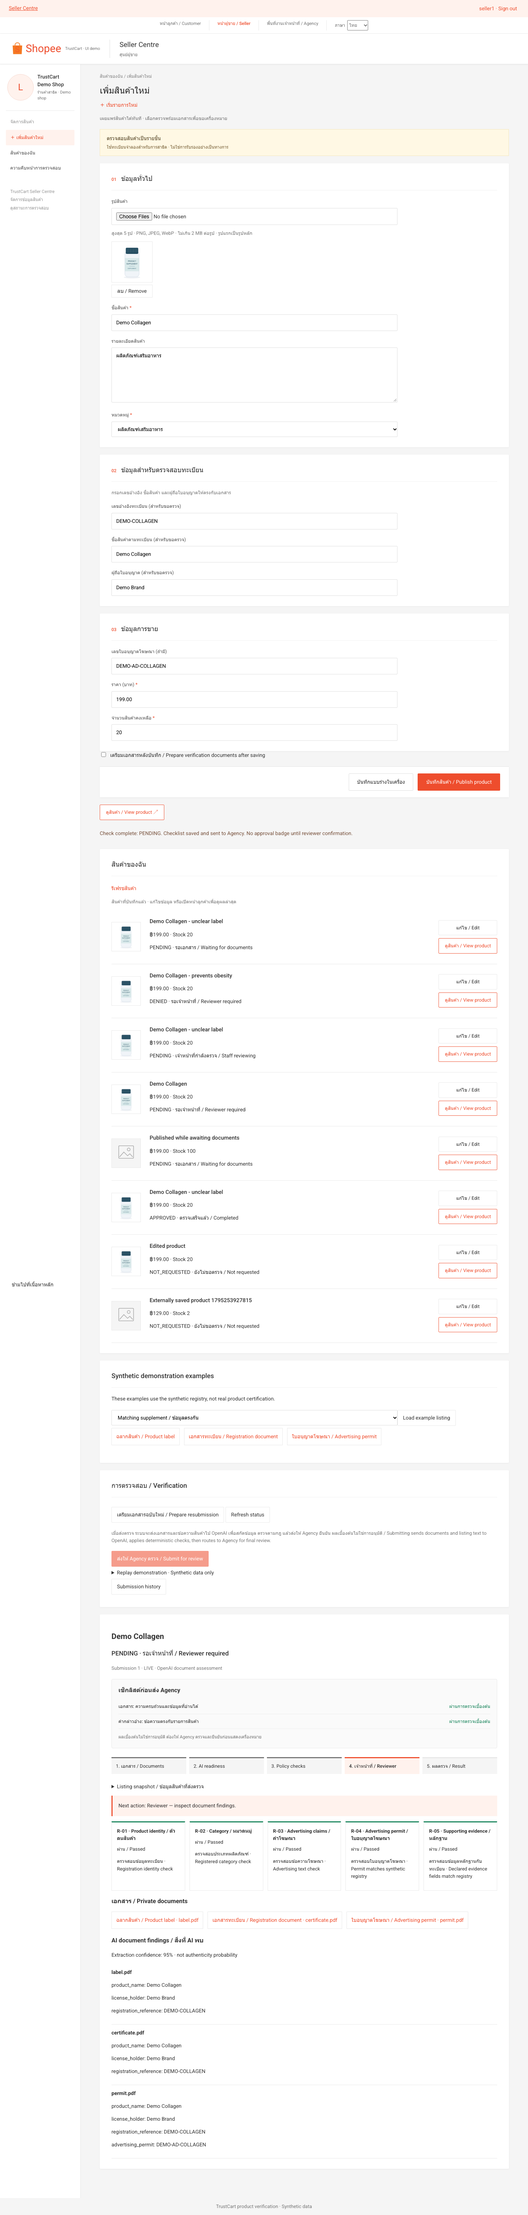
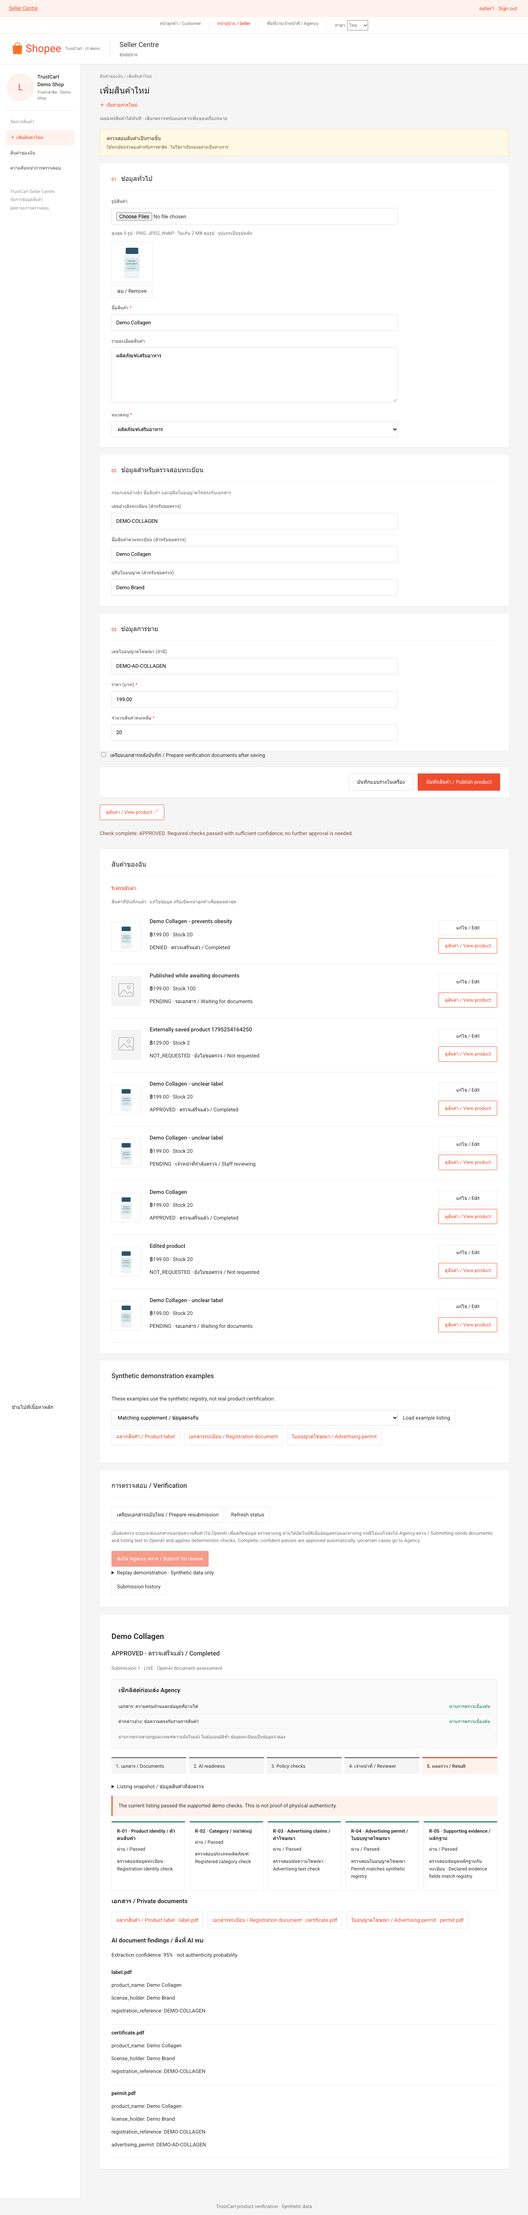
[codex] Auto-approve confident rule passes and escalate uncertain cases

diff --git a/frontend/checklist-view.js b/frontend/checklist-view.js
@@ -64,12 +64,23 @@ window.TrustCartChecklist = (() => {
     section.append(
       node(
         "p",
-        text(
-          "ผลเบื้องต้นไม่ใช่การอนุมัติ ต้องให้ Agency ตรวจและยืนยันก่อนแสดงเครื่องหมาย",
-          "Pre-checks are not approval. Agency must review and confirm before a badge is granted.",
-        ),
+        result.status === "APPROVED" && result.stage === "COMPLETED"
+          ? text(
+              "ผ่านการตรวจตามกฎและเกณฑ์ความมั่นใจแล้ว ไม่ต้องอนุมัติซ้ำ ข้อมูลทะเบียนเป็นข้อมูลจำลอง",
+              "Passed the required rules and confidence threshold. No additional approval is needed. Registry data is synthetic.",
+            )
+          : result.status === "DENIED"
+            ? text(
+                "พบข้อที่ไม่ผ่าน ต้องแก้ไขและส่งตรวจฉบับใหม่",
+                "Required checks failed. Correct the listing and submit a new revision.",
+              )
+            : text(
+                "กรณีไม่แน่ใจหรือข้อมูลไม่ครบจะส่งให้ Agency ตรวจ ผลที่ยังยืนยันไม่ได้ไม่มีเครื่องหมาย",
+                "Uncertain or incomplete evidence goes to Agency. Unconfirmed results receive no badge.",
+              ),
       ),
     );
+
     if (result.mode === "replay")
       section.append(
         node(

diff --git a/frontend/seller-connected.js b/frontend/seller-connected.js
@@ -355,7 +355,11 @@
       feedback(
         submission.stage === "UNAVAILABLE"
           ? "Check complete: UNKNOWN. Automated checks unavailable; Agency can inspect the case. Retry is required before approval."
-          : `Check complete: ${submission.status}. Checklist saved and sent to Agency. No approval badge until reviewer confirmation.`,
+          : submission.status === "APPROVED"
+            ? "Check complete: APPROVED. Required checks passed with sufficient confidence; no further approval is needed."
+            : submission.status === "DENIED"
+              ? "Check complete: DENIED. Correct the recorded failures and submit a new revision."
+              : "Check complete: PENDING. More information or reviewer confirmation is needed; checklist sent to Agency.",
       );
     } finally {
       showSelected();

diff --git a/tests/test_connected_submit_review.py b/tests/test_connected_submit_review.py
@@ -1,4 +1,5 @@
 import httpx
+import pytest
 from contextlib import closing
 from backend.app import database as store
 from test_connected_access import connected, login
@@ -26,7 +27,7 @@ def submit(client, result):
     )
 
 
-def test_submit_automatically_checks_documents_and_claims_then_routes_without_badge(
+def test_submit_auto_approves_only_completed_confident_checks(
     connected,
 ):
     client, password = connected
@@ -38,17 +39,17 @@ def test_submit_automatically_checks_documents_and_claims_then_routes_without_ba
     checked = response.json()
     assert calls == ["documents", "claims"]
     assert checked["mode"] == "live"
-    assert checked["status"] == "PENDING"
-    assert checked["stage"] == "REVIEWER_REQUIRED" and checked["human_review_required"]
+    assert checked["status"] == "APPROVED"
+    assert checked["stage"] == "COMPLETED" and not checked["human_review_required"]
     assert checked["precheck_status"] == "APPROVED"
     assert len(checked["rule_results"]) == 5
     assert checked["document_check"]["state"] == "completed"
     assert checked["claim_check"]["state"] == "completed"
-    assert not client.get("/v1/catalog/products").json()[0]["badge_eligible"]
+    assert client.get("/v1/catalog/products").json()[0]["badge_eligible"]
     assert submit(client, result).json()["chain_hash"] == checked["chain_hash"]
     assert calls == ["documents", "claims"]
     login(client, password, "reviewer")
-    queue = client.get("/v1/reviewer/queue?work_queue=to_review").json()
+    queue = client.get("/v1/reviewer/queue?work_queue=completed").json()
     assert any(row["id"] == checked["id"] for row in queue["items"])
     stored = client.get("/v1/reviewer/submissions/" + checked["id"]).json()
     assert stored["audit"]["valid"]
@@ -86,7 +87,7 @@ def test_ungrounded_claims_are_dropped_and_stale_submits_never_call_provider(con
     }
     checked = submit(client, result).json()
     assert checked["claim_check"]["claims"] == []
-    assert checked["status"] == "PENDING"
+    assert checked["status"] == "APPROVED"
     client.put(
         "/v1/seller/products/" + product["id"],
         json={**product["listing"], "expected_version": 1},
@@ -159,7 +160,7 @@ def test_real_provider_boundary_calls_openai_for_both_checklists(
     monkeypatch.setattr(httpx, "post", post)
     checked = submit(client, result).json()
     assert called == ["document_readiness", "listing_claims"]
-    assert checked["status"] == "PENDING" and checked["precheck_status"] == "APPROVED"
+    assert checked["status"] == "APPROVED" and checked["precheck_status"] == "APPROVED"
 
 
 def test_grounded_claim_failure_and_missing_check_cannot_be_overridden(connected):
@@ -168,7 +169,7 @@ def test_grounded_claim_failure_and_missing_check_cannot_be_overridden(connected
     configure_checks(client, [])
     checked = submit(client, result).json()
     assert checked["status"] == "DENIED"
-    assert checked["stage"] == "REVIEWER_REQUIRED"
+    assert checked["stage"] == "COMPLETED"
     assert any(
         rule["rule"] == "R-03" and rule["result"] == "fail"
         for rule in checked["rule_results"]
@@ -214,3 +215,47 @@ def test_review_cannot_skip_unrun_checks_even_with_confirmed_documents(connected
     )
     assert response.status_code == 409
     assert not client.get("/v1/catalog/products").json()[0]["badge_eligible"]
+
+
+def test_low_confidence_or_missing_information_stays_pending(connected):
+    client, password = connected
+    _, result = setup_case(client, password, "uncertain")
+    configure_checks(client, [])
+    checked = submit(client, result).json()
+    assert checked["status"] == "PENDING"
+    assert checked["stage"] == "REVIEWER_REQUIRED" and checked["human_review_required"]
+    assert checked["document_check"]["result"] == "review"
+    assert not client.get("/v1/catalog/products").json()[0]["badge_eligible"]
+    _, result = setup_case(client, password)
+
+    def missing_information(listing, docs):
+        findings = replay(listing, docs)
+        findings["missing"] = ["Additional label information is required"]
+        return findings
+
+    configure_checks(client, [])
+    client.app.state.document_assessor = missing_information
+    checked = submit(client, result).json()
+    assert checked["status"] == "PENDING" and checked["human_review_required"]
+    assert checked["document_check"]["result"] == "review"
+
+
+
+@pytest.mark.parametrize("confidence,status", [(0.74, "PENDING"), (0.75, "APPROVED")])
+def test_auto_approval_respects_confidence_threshold(connected, confidence, status):
+    client, password = connected
+    _, result = setup_case(client, password)
+    configure_checks(client, [])
+
+    def assessor(listing, docs):
+        findings = replay(listing, docs)
+        findings["confidence"] = confidence
+        return findings
+
+    client.app.state.document_assessor = assessor
+    checked = submit(client, result).json()
+    assert checked["status"] == status
+    assert checked["human_review_required"] is (status == "PENDING")
+    assert client.get("/v1/catalog/products").json()[0]["badge_eligible"] is (
+        status == "APPROVED"
+    )

diff --git a/backend/app/api/assessment.py b/backend/app/api/assessment.py
@@ -293,11 +293,16 @@ def run(submission_id: UUID, payload: Run, request: Request):
                     )
                     event(result, "R-03", rule)
     result["precheck_status"] = result["status"]
-    if result["status"] == "APPROVED":
-        result.update(status="PENDING", reason="agency_review_required")
+    # Confident, complete findings can pass the deterministic rules automatically.
+    # Only unresolved evidence/uncertainty needs an additional Agency decision.
+    needs_review = result["status"] in ("PENDING", "UNKNOWN")
     result.update(
-        stage="UNAVAILABLE" if result["status"] == "UNKNOWN" else "REVIEWER_REQUIRED",
-        human_review_required=True,
+        stage=(
+            "UNAVAILABLE"
+            if result["status"] == "UNKNOWN"
+            else "REVIEWER_REQUIRED" if needs_review else "COMPLETED"
+        ),
+        human_review_required=needs_review,
     )
     event(
         result,
@@ -305,7 +310,7 @@ def run(submission_id: UUID, payload: Run, request: Request):
         {
             "status": result["status"],
             "precheck_status": result["precheck_status"],
-            "required": True,
+            "required": needs_review,
         },
     )
     with transaction(request.app.state.database) as connection:

diff --git a/tests/test_connected_workflow.py b/tests/test_connected_workflow.py
@@ -34,6 +34,8 @@ def run(client, result, mode="replay"):
 
 
 def approve_review(client, password, product, result):
+    if result["status"] == "APPROVED":
+        return result
     login(client, password, "reviewer")
     response = client.post(
         "/v1/reviewer/submissions/" + result["id"] + "/decision",
@@ -57,8 +59,8 @@ def test_replay_approval_and_buyer_document_isolation(connected):
     client, password = connected
     product, result = setup_case(client, password)
     result = run(client, result)
-    assert result["status"] == "PENDING" and result["mode"] == "replay"
-    assert not client.get("/v1/catalog/products").json()[0]["badge_eligible"]
+    assert result["status"] == "APPROVED" and result["mode"] == "replay"
+    assert client.get("/v1/catalog/products").json()[0]["badge_eligible"]
     result = approve_review(client, password, product, result)
     assert len(result["rule_results"]) == 5
     doc = result["documents"][0]["id"]

diff --git a/DEMO.md b/DEMO.md
@@ -1,6 +1,6 @@
 # TrustCart — เดโม 3 บทบาท
 
-แกนหลักคือ **ผู้ขายส่งหลักฐาน → AI ตรวจความพร้อม → กฎตัดสิน → Agency ตรวจทุกคำขอ → ผู้ซื้อเห็นเครื่องหมายบนสินค้าที่ผ่าน** เลขทะเบียนเพียงอย่างเดียวไม่ได้พิสูจน์ว่าสินค้าจริงเป็นของแท้ ทะเบียนและแพ็กเกจเป็นข้อมูลสาธิต ไม่ใช่การรับรองโดย Shopee หรือ อย.
+แกนหลักคือ **ผู้ขายส่งหลักฐาน → AI ตรวจความพร้อม → กฎตัดสิน → อนุมัติอัตโนมัติเมื่อผ่านกฎและมั่นใจ กรณีไม่แน่ใจให้ Agency ตรวจ → ผู้ซื้อเห็นเครื่องหมายบนสินค้าที่ผ่าน** เลขทะเบียนเพียงอย่างเดียวไม่ได้พิสูจน์ว่าสินค้าจริงเป็นของแท้ ทะเบียนและแพ็กเกจเป็นข้อมูลสาธิต ไม่ใช่การรับรองโดย Shopee หรือ อย.
 
 ## เตรียมเดโม
 
@@ -14,8 +14,8 @@
 1. ล็อกอิน seller1 เปิดเมนู **TrustCart · ฿299/เดือน** มุมขวาบน แล้วเปิดใช้แผนสาธิต เมนูจะหายไปเมื่อแผนยังมีผล อธิบายว่าเป็นการเปิดใช้จำลอง ตรวจสินค้าไม่จำกัดในเดือนนั้น และไม่มีการเก็บเงินจริง
 2. เลือกตัวอย่าง **ข้อมูลตรงกัน / Matching supplement** แล้วกด **Load example listing** และบันทึกสินค้า ลิงก์ **ดูสินค้า / View product** แสดงรูป ราคา และสต็อกทันที แต่ยังไม่มีเครื่องหมาย
 3. กด **เตรียมเอกสาร / Prepare documents** แล้วอัปโหลดฉลาก เอกสารทะเบียน และใบอนุญาตที่จำเป็น ปุ่มเอกสารตัวอย่างส่งไฟล์จำลองโดยไม่เปลี่ยนรูปแบบการตรวจอัตโนมัติ
-4. กด **ส่งให้ Agency ตรวจ / Submit for review** ระบบเรียก OpenAI สกัดข้อมูลเอกสารและข้อความกล่าวอ้างโดยอัตโนมัติ แล้วใช้กฎสร้างเช็กลิสต์ แม้ผ่านเบื้องต้นก็ยังเป็น `PENDING` / Reviewer required และไม่มีเครื่องหมาย หากเดโมออฟไลน์ ให้เปิด **Replay demonstration** เพื่อรันเช็กลิสต์จำลองที่ระบุชัดเจน ซึ่งยังต้องให้ Agency ตรวจ
-5. ล็อกอิน reviewer เปิด `/agency` เลือก **รอเจ้าหน้าที่ตรวจ** เปิดรายงานและกด **เริ่มตรวจ** อ่านเอกสารต้นฉบับและเช็กลิสต์ทั้งสองรายการ ติ๊กยืนยันเอกสาร กรอกข้อมูลตัวตนจากเอกสารและเหตุผล แล้วกด **Approve** ระบบรันกฎอีกครั้งก่อนอนุมัติ หน้าสินค้าปัจจุบันจึงแสดงเครื่องหมายได้ โดยเอกสารยังเป็นส่วนตัว
+4. กด **ส่งให้ Agency ตรวจ / Submit for review** ระบบเรียก OpenAI สกัดข้อมูลเอกสารและข้อความกล่าวอ้างโดยอัตโนมัติ แล้วใช้กฎสร้างเช็กลิสต์ เมื่อข้อมูลครบ สอดคล้อง ความมั่นใจตั้งแต่ 0.75 และผ่านกฎ จะได้ `APPROVED` อัตโนมัติโดยไม่ต้องอนุมัติซ้ำ หากเดโมออฟไลน์ ให้เปิด **Replay demonstration** เพื่อรันเช็กลิสต์จำลองที่ระบุชัดเจน โดยใช้เกณฑ์ความมั่นใจและกฎเดียวกัน
+5. เปิดหน้าสินค้าปัจจุบันเพื่อดูเครื่องหมายที่ได้อัตโนมัติ ใน Agency เลือก **เสร็จสิ้น** เพื่อดูรายงานโดยไม่ต้องอนุมัติซ้ำ ใช้ **รอเจ้าหน้าที่ตรวจ** สำหรับกรณีไม่มั่นใจหรือข้อมูลไม่ครบ ซึ่งยังเป็น `PENDING` จนกว่าจะแก้ไข เอกสารยังเป็นส่วนตัว
 6. แก้ชื่อ ราคา หรือสต็อกแล้วบันทึก URL เดิมแสดงข้อมูลใหม่และเครื่องหมายหาย ต้องส่งตรวจใหม่ โดยประวัติเดิมยังอยู่
 
 ## เจ้าหน้าที่ตรวจและส่งใหม่
@@ -34,7 +34,7 @@
 
 ## ขอบเขต
 
-รับเอกสารส่วนตัว PDF, PNG, JPEG, WebP ไม่เกิน 2 MiB ต่อไฟล์ ใช้งานพร้อมกันได้ 5 ไฟล์ และ PDF ไม่เข้ารหัสไม่เกิน 10 หน้า ข้อความอ้างอิงจาก PDF ถูกเทียบกับข้อความจริง ภาพและ PDF สแกนต้องให้คนยืนยันด้วยสายตา อาหารเสริมเป็นหมวดแรกของเช็กลิสต์ที่รองรับ แต่ทุกคำขอต้องผ่านการตรวจโดย Agency ยังไม่รวมการซื้อจริง การเก็บเงิน OAuth ทะเบียนภาครัฐจริง และการเชื่อมต่อ Marketplace จริง พื้นที่ Agency ในเครื่องใช้บัญชี reviewer และแบ่งปันข้อมูลคำขอ/ผลตรวจกับหน้าร้านผ่านฐานข้อมูลเดิม Lazada ยังไม่มีคำขอ
+รับเอกสารส่วนตัว PDF, PNG, JPEG, WebP ไม่เกิน 2 MiB ต่อไฟล์ ใช้งานพร้อมกันได้ 5 ไฟล์ และ PDF ไม่เข้ารหัสไม่เกิน 10 หน้า ข้อความอ้างอิงจาก PDF ถูกเทียบกับข้อความจริง ภาพและ PDF สแกนต้องให้คนยืนยันด้วยสายตา อาหารเสริมเป็นหมวดแรกของเช็กลิสต์ที่รองรับ กรณีไม่แน่ใจหรือข้อมูลไม่ครบต้องให้ Agency ตรวจ ยังไม่รวมการซื้อจริง การเก็บเงิน OAuth ทะเบียนภาครัฐจริง และการเชื่อมต่อ Marketplace จริง พื้นที่ Agency ในเครื่องใช้บัญชี reviewer และแบ่งปันข้อมูลคำขอ/ผลตรวจกับหน้าร้านผ่านฐานข้อมูลเดิม Lazada ยังไม่มีคำขอ
 
 ก่อนเดโมรัน `.venv/bin/python -m pytest -q`, `npm test`, `npm run test:browser` บน Windows ใช้ `.venv/Scripts/python` งานนี้ยังไม่ได้ deploy หรือทดสอบระบบ hosted จริง
 

diff --git a/README.md b/README.md
@@ -105,7 +105,7 @@ Public catalog data includes listing fields, shop identity, minimal status and `
 - Save a local draft and publish independently of verification. Successful publication remains visible if the optional verification action fails.
 - Activate the **demo ฿299/month** verification plan. This sets an expiry one calendar month ahead and enables submissions; it is not billing, payment, automatic renewal, or a validated commercial offer.
 - Create an immutable submission snapshot; upload a label and certificate/registration document, plus a permit when required by the listing or synthetic registry. Up to five active documents are retained per submission.
-- Choose **Prepare documents**, upload all required evidence, then **Submit for review**. That single action calls OpenAI document and claim extraction, applies deterministic rules, saves the checklist and routes the case to Agency. A clean pre-check remains `PENDING`; only a reviewer confirmation can grant a connected badge. A separate, explicitly labeled Replay demonstration also routes to Agency. View blockers, reviewer notes and revision history; prepare a new submission to replace checked evidence.
+- Choose **Prepare documents**, upload all required evidence, then **Submit for review**. That single action calls OpenAI document and claim extraction, applies deterministic rules, saves the checklist and routes the case to Agency. A complete, consistent assessment with confidence at least 0.75 and every required applicable rule passing becomes `APPROVED` automatically, without a second approval. Low confidence, missing information or unresolved conflicts remain `PENDING` for Agency review. A separate, explicitly labeled Replay demonstration follows the same status policy. View blockers, reviewer notes and revision history; prepare a new submission to replace checked evidence.
 - Use **Refresh products** or **Refresh status** for external updates. Seller product lists load on entry and after local actions; they do not poll while idle or on window focus. Manual refresh preserves unsaved edits.
 
 Any product edit supersedes the active submission and removes its badge. Replacing checked evidence requires a new submission. The backend checks product version, current submission and chain hash; stale reviewer actions and late assessment results cannot approve a newer revision. Assessment runs use a run token and lease to reject concurrent/stale completions.
@@ -145,7 +145,7 @@ Product images must be valid PNG/JPEG/WebP data URLs, at most 2 MiB and 16 milli
 
 The document request can transfer the listing and uploaded document content. Text-PDF quotations are checked against extracted page text. Image-only/scanned content, low confidence, inconsistent findings, missing quotations and non-supplement categories require human confirmation. An unavailable/malformed document or claim assessment produces `UNKNOWN`/`UNAVAILABLE`, retains any available findings and routes to Agency; it never silently switches to replay. Reviewers cannot approve while a required automated check is unavailable.
 
-Replay makes no OpenAI calls and accepts only the exact bundled listing and matching label/certificate/permit hashes for three synthetic cases: clean, uncertain and overclaim. It is labeled in Seller Centre. Neither replay nor live extraction authenticates documents. Both now require Agency review before approval; historical automatic demo approvals remain readable without rewriting their audit chains.
+Replay makes no OpenAI calls and accepts only the exact bundled listing and matching label/certificate/permit hashes for three synthetic cases: clean, uncertain and overclaim. It is labeled in Seller Centre. Neither replay nor live extraction authenticates documents. Complete, confident cases that pass the required rules can approve automatically; uncertain cases need Agency review. Historical audit chains remain intact.
 
 `backend/app/llm.py` extracts literal listing claims and drops phrases absent from the listing. Connected review submission uses its required, schema-validated extraction path: missing configuration, provider errors and malformed output are unavailable checks, not clean claims. Grounded findings are saved and reused when the reviewer reruns rules, with no provider call inside a database transaction. The older diagnostic APIs retain their optional extraction behavior. Neither model sets a verification status.
 
@@ -189,9 +189,9 @@ Playwright uses the connected application on port 8768, a temporary SQLite datab
 
 | Check | Result |
 | --- | --- |
-| `/tmp/trustcart-merge-venv/bin/python -m pytest -q` — isolated Python 3.13 environment installed from `requirements.txt` | 181 passed; one Starlette/httpx deprecation warning |
+| `/tmp/trustcart-merge-venv/bin/python -m pytest -q` — isolated Python 3.13 environment installed from `requirements.txt` | 184 passed; one Starlette/httpx deprecation warning |
 | `npm ci` then `npm test` | 133 passed |
-| `npx playwright test` — local Chromium | 46 passed (desktop/mobile Chromium) |
+| `npx playwright test` — local Chromium | 48 passed (desktop/mobile Chromium) |
 
 The pre-existing Python 3.15 `.venv` run had 171 passes and two import failures because `psycopg` was absent; installing the pinned binary extra on that interpreter failed dependency resolution. The successful Python 3.13 run uses the declared dependencies without modifying `.venv` or loosening requirements.
 

diff --git a/AGENCY.md b/AGENCY.md
@@ -44,6 +44,6 @@ Local validation: 143 Python tests, 120 frontend tests and 28 desktop/mobile bro
 
 ## Automatic seller pre-checks / ตรวจเบื้องต้นอัตโนมัติ
 
-After evidence preparation, the seller chooses Submit for review. The server calls both OpenAI document and listing-claim extractors, validates/grounds the findings and runs deterministic rules before routing to Agency. Seller and Agency reports share a two-entry pre-check checklist plus R-01–R-05 results. A clean assessment remains PENDING with no badge. Every new assessed case, including explicitly selected synthetic Replay, requires Agency review. Provider errors are UNKNOWN, preserve completed findings and cannot be approved until missing checks succeed. Reviewer approvals rerun rules against saved grounded findings and confirmed original documents. No AI provider is called while holding database write locks.
+After evidence preparation, the seller chooses Submit for review. The server calls both OpenAI document and listing-claim extractors, validates/grounds the findings and runs deterministic rules before routing to Agency. Seller and Agency reports share a two-entry pre-check checklist plus R-01–R-05 results. A complete, consistent assessment at confidence 0.75 or above that passes all required applicable rules is automatically APPROVED, with no extra approval step. Low confidence, missing information or conflicting evidence remains PENDING in To review. Automatic passes and conclusive failures are shown in Completed, including explicitly selected Replay. Provider errors are UNKNOWN, preserve completed findings and cannot be approved until missing checks succeed. Reviewer approvals rerun rules against saved grounded findings and confirmed original documents. No AI provider is called while holding database write locks.
 
-หลังเตรียมเอกสาร ผู้ขายกด Submit for review เซิร์ฟเวอร์เรียก OpenAI สกัดข้อมูลเอกสารและคำกล่าวอ้าง ตรวจว่าข้อความตรงกับข้อมูลจริง แล้วใช้กฎประเมินก่อนส่ง Agency รายงานผู้ขายและ Agency ใช้เช็กลิสต์เอกสาร/คำกล่าวอ้างร่วมกับผล R-01–R-05 ผลผ่านเบื้องต้นยังเป็น PENDING ไม่มีเครื่องหมาย ทุกคำขอใหม่รวม Replay ต้องให้ Agency ตรวจ หากผู้ให้บริการไม่พร้อมเป็น UNKNOWN โดยเก็บผลส่วนที่ตรวจได้ และอนุมัติไม่ได้จนกว่าจะตรวจส่วนที่ขาดสำเร็จ การอนุมัติรันกฎซ้ำจากผลสกัดที่บันทึกและข้อมูลจากเอกสารต้นฉบับ ไม่มีการเรียก AI ขณะล็อกฐานข้อมูลเพื่อเขียน
+หลังเตรียมเอกสาร ผู้ขายกด Submit for review เซิร์ฟเวอร์เรียก OpenAI สกัดข้อมูลเอกสารและคำกล่าวอ้าง ตรวจว่าข้อความตรงกับข้อมูลจริง แล้วใช้กฎประเมินก่อนส่ง Agency รายงานผู้ขายและ Agency ใช้เช็กลิสต์เอกสาร/คำกล่าวอ้างร่วมกับผล R-01–R-05 เมื่อข้อมูลครบ สอดคล้อง ความมั่นใจตั้งแต่ 0.75 และผ่านกฎที่จำเป็น จะเป็น APPROVED อัตโนมัติโดยไม่ต้องอนุมัติซ้ำ หากความมั่นใจต่ำ ข้อมูลไม่ครบ หรือหลักฐานขัดแย้ง จะเป็น PENDING ในคิวรอตรวจ ผลผ่านและผลไม่ผ่านที่ชัดเจนอยู่ในกลุ่มเสร็จสิ้น รวมถึง Replay หากผู้ให้บริการไม่พร้อมเป็น UNKNOWN โดยเก็บผลส่วนที่ตรวจได้ และอนุมัติไม่ได้จนกว่าจะตรวจส่วนที่ขาดสำเร็จ การอนุมัติรันกฎซ้ำจากผลสกัดที่บันทึกและข้อมูลจากเอกสารต้นฉบับ ไม่มีการเรียก AI ขณะล็อกฐานข้อมูลเพื่อเขียน

diff --git a/AGENTS.md b/AGENTS.md
@@ -23,7 +23,7 @@
 - `PRODUCT.md` defines the full product target; `REGISTRATION.md` records the promised end-to-end demo and commitments. Implement these incrementally rather than treating every described feature as already delivered.
 - `DEMO.md`, `DEMO.en.md`, `DEPLOY.md`, `DEPLOY.en.md`, and `GAPS_AND_QA.md` are supporting scenarios and operational references. Their feature lists, paths, deployment claims, and test counts require verification against this checkout.
 - Current implementation connects buyer, shop-owned seller and reviewer surfaces through `/v1/catalog`, `/v1/seller`, `/v1/reviewer` and `/v1/auth`. Demo role selection needs no password and does not authenticate real identities; sessions and CSRF are enforced in both entrypoints. Public catalog responses must never expose documents, AI findings or audit hashes. Registry data remains synthetic.
-- Seller **Submit for review** runs required Live OpenAI document and grounded-claim extraction, persists a checklist and routes to Agency. Clean pre-checks remain `PENDING`; new Live and Replay assessments cannot automatically grant approval. Unavailable required checks remain `UNKNOWN` and block approval until resolved.
+- Seller **Submit for review** runs required Live OpenAI document and grounded-claim extraction, persists a checklist and routes to Agency. Complete, grounded checks with confidence at least 0.75 and all required applicable rules passing are automatically `APPROVED`; no extra reviewer approval is needed. Low confidence, missing information or conflicting evidence remains `PENDING` for Agency review. Unavailable required checks remain `UNKNOWN` and block approval until resolved.
 - Publication is independent of verification. A demo ฿299/month plan unlocks verification; it does not collect payment. Immutable submission snapshots, private document revisions, AI readiness, deterministic rules and reviewer decisions drive badges. Product edits supersede the active submission and remove the badge. Check both product version and current chain hash; never apply late AI results to a new revision.
 - `document_assessment.py` extracts document findings separately from `llm.py` claim extraction. Live errors never fall back to replay. Replay accepts only exact synthetic fixtures. Images/scanned documents and uncertainty require human confirmation; unsupported categories do not auto-pass. The local Agency workspace at `/agency` replaces Reviewer and reuses its authenticated role. It shows current submissions with marketplace/work/result filters, dedicated bilingual reports and an audited Start review transition. Shopee means the shared local storefront; Lazada has no seeded or live feed. See README and DEMO companion files for the current flow.
 - Product pages use `/products/{id}`. Seller/reviewer lists show saved media, price, stock and latest status with explicit actions. New/edited product requests require a price; unpriced legacy records remain editable but are omitted from the customer catalog. Real source-product references never inherit synthetic approvals.

diff --git a/tests/README.md b/tests/README.md
@@ -69,6 +69,8 @@ Merge validation passed: `/tmp/trustcart-merge-venv/bin/python -m pytest -q` —
 
 ## Automatic review submission
 
-Seller Submit for review now calls the Live-only `/submit-review` endpoint. Provider-boundary tests mock the OpenAI Responses API and verify both document and claim requests; no live credentials or network calls are required. Browser tests inject explicit test-only assessors in `serve_connected.py`, then exercise the real submit endpoint, checklist rendering, Agency queue, reviewer confirmation and badge propagation. Replay fixtures also need a reviewer decision; badge tests now create that decision in a separate reviewer session.
+Seller Submit for review now calls the Live-only `/submit-review` endpoint. Provider-boundary tests mock the OpenAI Responses API and verify both document and claim requests; no live credentials or network calls are required. Browser tests inject explicit test-only assessors in `serve_connected.py`, then exercise the real submit endpoint, checklist rendering, Agency queue, reviewer confirmation and badge propagation. Complete, confident Replay fixtures can approve automatically under the same deterministic rules; uncertain cases still require a reviewer decision.
 
 Validation for this change: `/tmp/trustcart-merge-venv/bin/python -m pytest -q` — 181 passed; `npm test` — 133 passed; `npx playwright test` — 46 passed. Coverage includes missing documents, unavailable/malformed claim checks, grounded claim filtering, idempotent retries, stale revisions, unrun-check approval rejection and preservation of publication behavior. Real OpenAI connectivity and deployed provider configuration were not validated.
+
+Automatic-approval update: complete, consistent assessments at confidence ≥0.75 with all required applicable rules passing now become APPROVED/COMPLETED immediately. Lower confidence, missing information or conflicts remain PENDING for Agency, while outages remain UNKNOWN. Validation: 184 Python tests, 133 frontend tests and 48 desktop/mobile browser tests passed, including both automatic approval and uncertain-case manual review. Providers remain mocked in local validation.
